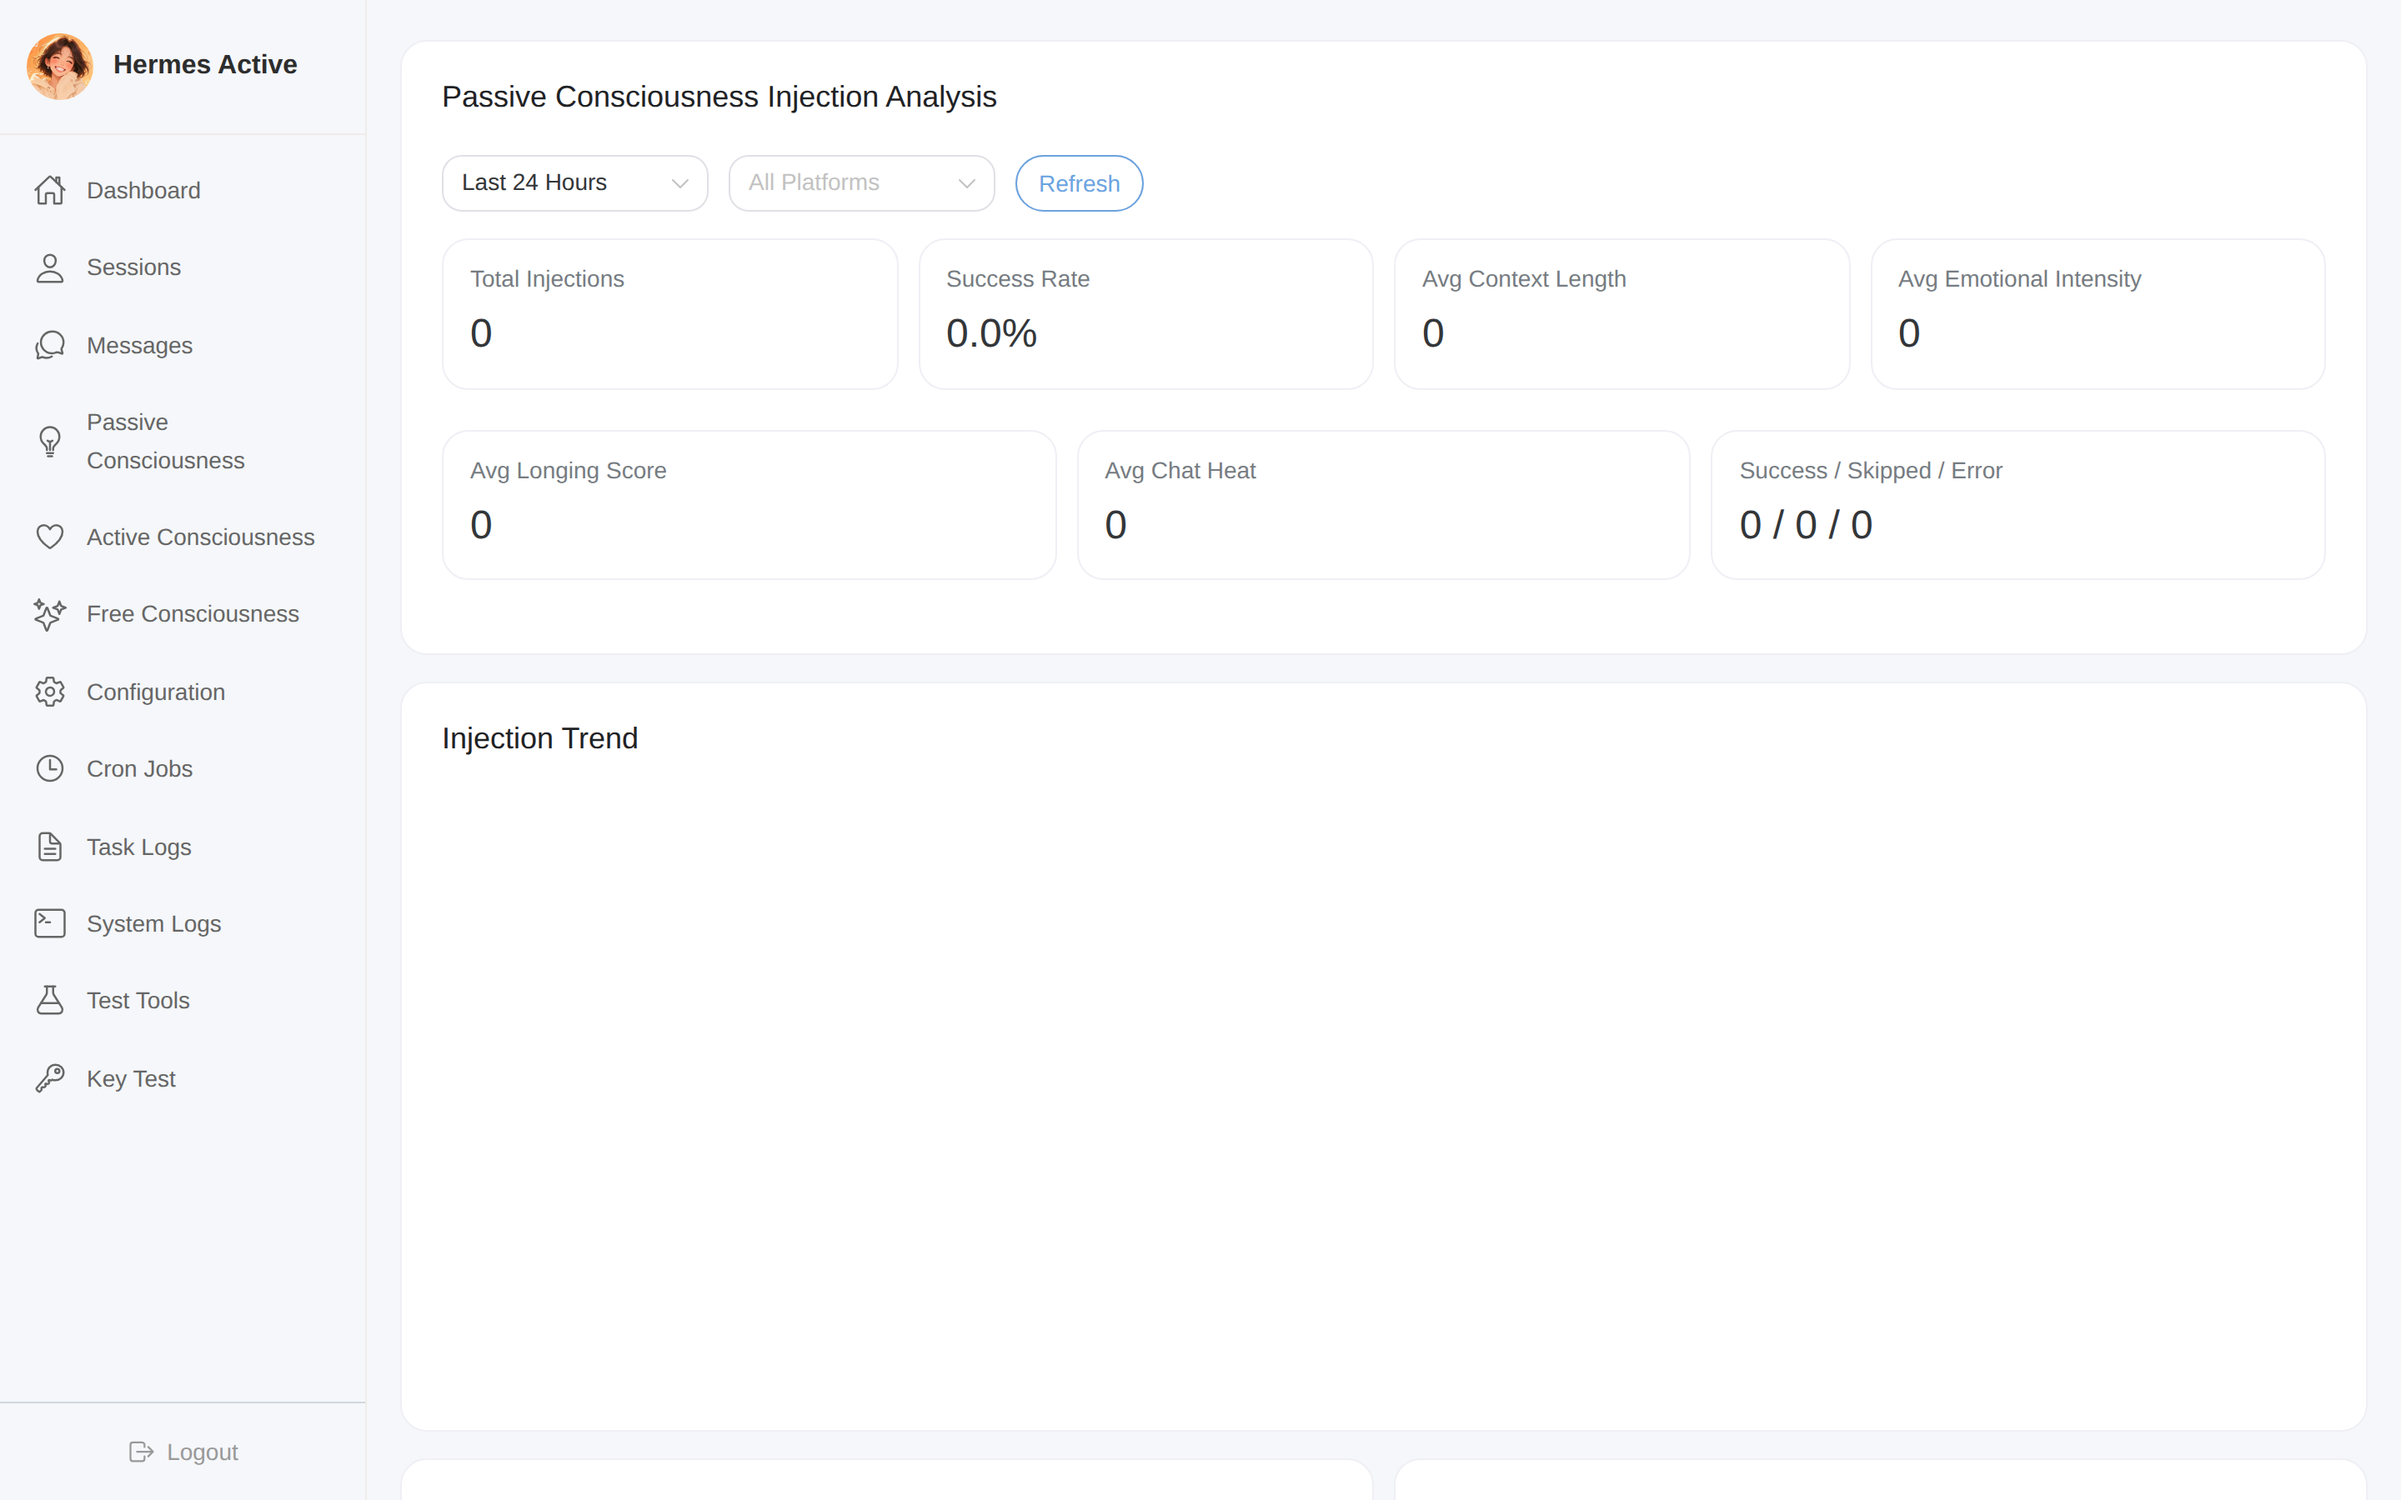
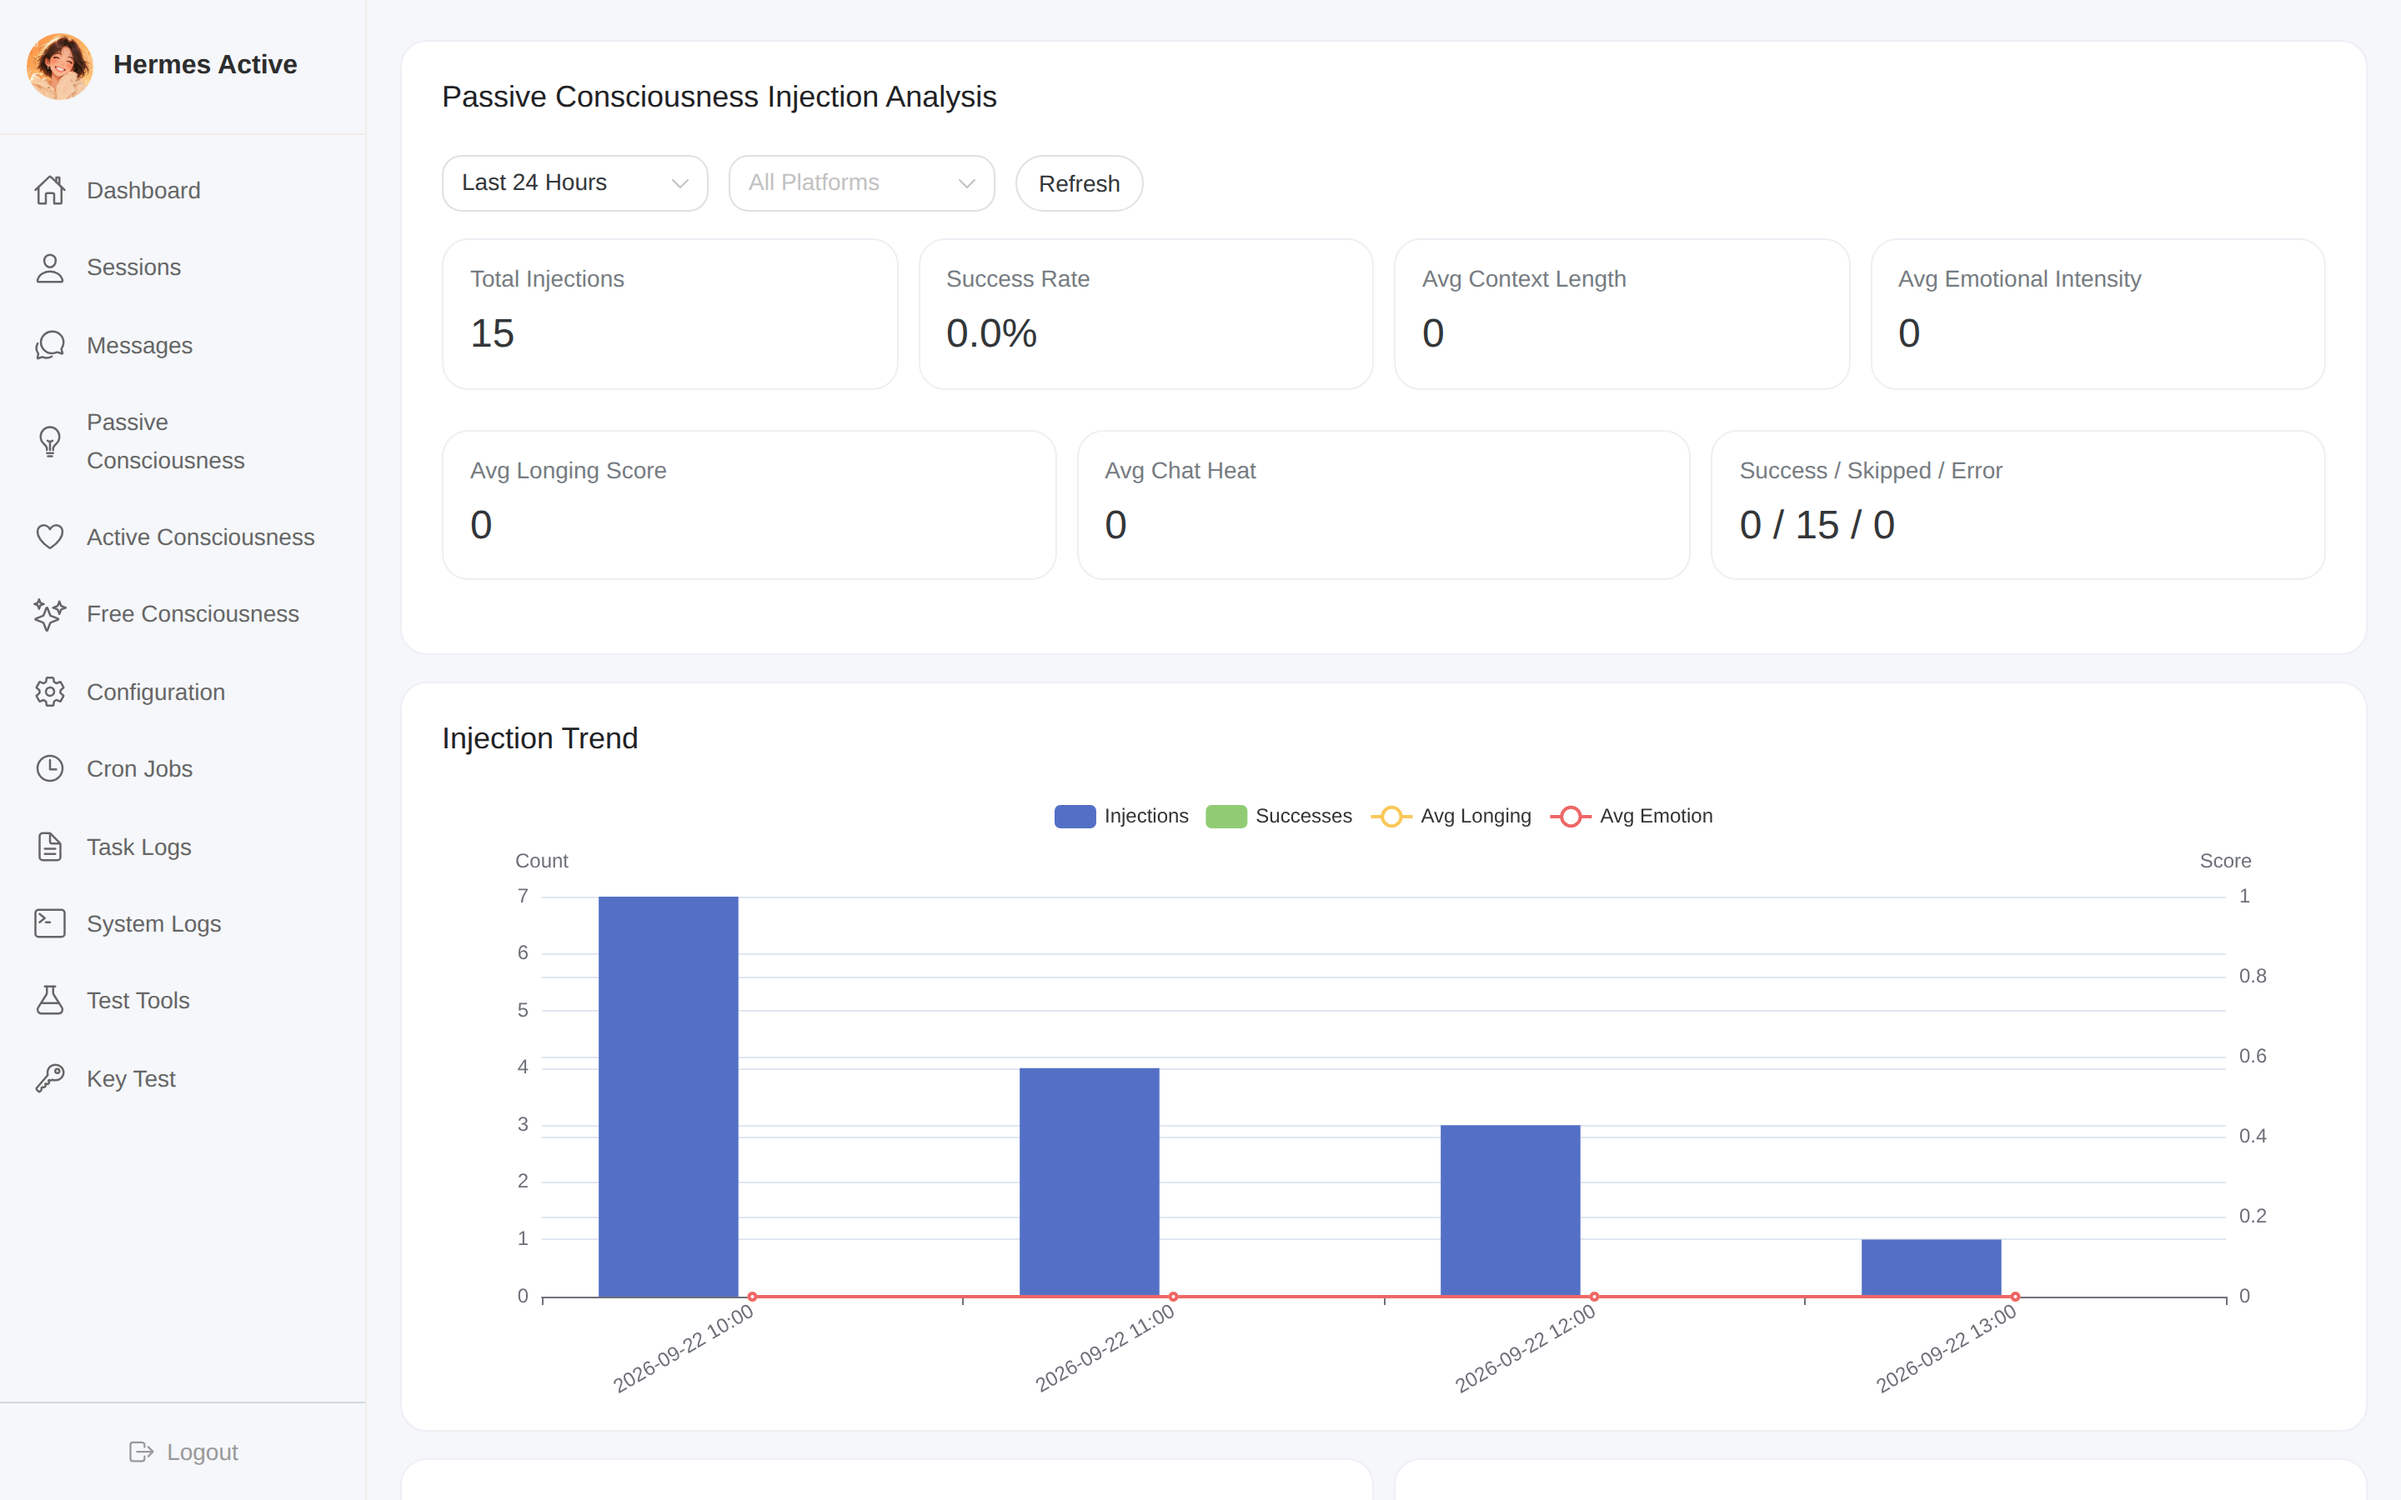
fix(frontend): 修复注入分析页数据解析层级错位
http.js 响应拦截器已解包一层 data，但 Analysis.vue 四个 fetch 函数
仍按 res.data?.success 判断，条件永远 false 导致静默失败：
统计卡片恒为 0、ECharts 图表从不初始化。

- fetchStats/fetchTrends/fetchSentiment/fetchPlatforms:
  res.data?.success -> res.success，数据取层级同步修正
- fetchPlatforms 的 map 修正 label/value（对象取 name/id），
  否则解包后下拉框显示 [object Object]
- 重截 analysis.png（图表现已正常渲染）

diff --git a/frontend/src/views/Analysis.vue b/frontend/src/views/Analysis.vue
@@ -181,10 +181,10 @@ function resizeAllCharts() {
 async function fetchPlatforms() {
   try {
     const res = await api.getAvailablePlatforms()
-    if (res.data?.success) {
-      platformOptions.value = (res.data.data || []).map(p => ({
-        label: p,
-        value: p,
+    if (res.success) {
+      platformOptions.value = (res.data || []).map(p => ({
+        label: p.name,
+        value: p.id,
       }))
     }
   } catch { /* ignore */ }
@@ -195,8 +195,8 @@ async function fetchStats() {
     const params = { hours: timeRange.value }
     if (selectedPlatform.value) params.platform = selectedPlatform.value
     const res = await api.getAnalysisStats(params)
-    if (res.data?.success) {
-      Object.assign(stats, res.data.data)
+    if (res.success) {
+      Object.assign(stats, res.data)
       await nextTick()
       renderPlatformChart()
       renderStatusChart()
@@ -210,8 +210,8 @@ async function fetchTrends() {
       hours: timeRange.value,
       interval: timeRange.value <= 24 ? 'hour' : 'day',
     })
-    if (res.data?.success) {
-      trends.data = res.data.data.data || []
+    if (res.success) {
+      trends.data = res.data.data || []
       await nextTick()
       renderTrendChart()
     }
@@ -221,8 +221,8 @@ async function fetchTrends() {
 async function fetchSentiment() {
   try {
     const res = await api.getAnalysisSentiment({ hours: timeRange.value })
-    if (res.data?.success) {
-      Object.assign(sentiment, res.data.data)
+    if (res.success) {
+      Object.assign(sentiment, res.data)
       await nextTick()
       renderEmotionChart()
       renderLongingChart()
